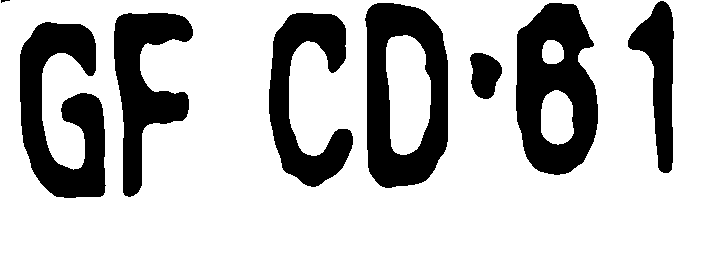
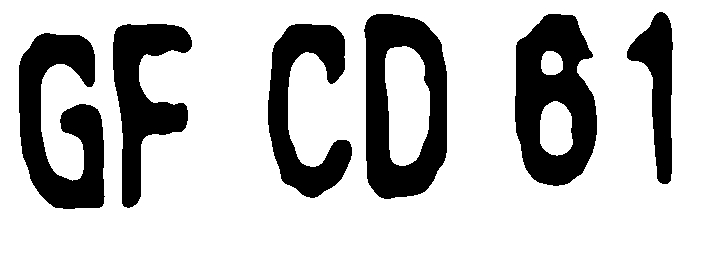
bounding boxes filter now working

diff --git a/processImageOCV.py b/processImageOCV.py
@@ -1,6 +1,7 @@
 import cv2
 import matplotlib.pyplot as plt
 import numpy as np
+import copy
 np.set_printoptions(threshold=np.inf)
 
 
@@ -29,20 +30,24 @@ def processImage(file='./camion3.png', output='./license3processed.png',
 
     image = firstFilter(image)
     image = secondFilter(image)
+    image = getBoundingBoxes(image)
 
     cv2.imwrite(output, image)
 
 
 def preFilter(img):
 
+    print('Pre-Filter entered')
+
     row_mean = np.mean(img, axis=1)
     col_mean = np.mean(img, axis=0)
+
 
     for i, row in enumerate(row_mean):
         hist, bins = np.histogram(img[i, :], bins=[0, 122, 255])
         hist = np.array(hist).astype(float)
 
-        if (hist[0] / (hist[0] + hist[1]) > 0.2):
+        if (hist[0] / (hist[0] + hist[1]) > 0.1):
             mask_row_upper = i
             break
 
@@ -50,7 +55,7 @@ def preFilter(img):
         hist, bins = np.histogram(img[i, :], bins=[0, 122, 255])
         hist = np.array(hist).astype(float)
 
-        if (hist[0] / (hist[0] + hist[1]) > 0.5):
+        if (hist[0] / (hist[0] + hist[1]) > 0.1):
             mask_row_lower = i
             break
 
@@ -58,7 +63,7 @@ def preFilter(img):
         hist, bins = np.histogram(img[:, i], bins=[0, 122, 255])
         hist = np.array(hist).astype(float)
 
-        if (hist[0] / (hist[0] + hist[1]) > 0.2):
+        if (hist[0] / (hist[0] + hist[1]) > 0.25):
             mask_col_left = i
             break
 
@@ -66,7 +71,7 @@ def preFilter(img):
         hist, bins = np.histogram(img[:, i], bins=[0, 122, 255])
         hist = np.array(hist).astype(float)
 
-        if (hist[0] / (hist[0] + hist[1]) > 0.2):
+        if (hist[0] / (hist[0] + hist[1]) > 0.25):
             mask_col_right = i
             break
 
@@ -91,7 +96,7 @@ def firstFilter(img):
         hist, bins = np.histogram(img[i, :], bins=[0, 122, 255])
         hist = np.array(hist).astype(float)
 
-        if (hist[1] / (hist[0] + hist[1]) > 0.75):
+        if (hist[1] / (hist[0] + hist[1]) > 0.551):
             mask_row_upper = i
             break
 
@@ -99,7 +104,7 @@ def firstFilter(img):
         hist, bins = np.histogram(img[i, :], bins=[0, 122, 255])
         hist = np.array(hist).astype(float)
 
-        if (hist[1] / (hist[0] + hist[1]) > 0.75):
+        if (hist[1] / (hist[0] + hist[1]) > 0.76):
             mask_row_lower = i
             break
 
@@ -107,7 +112,7 @@ def firstFilter(img):
         hist, bins = np.histogram(img[:, i], bins=[0, 122, 255])
         hist = np.array(hist).astype(float)
 
-        if (hist[1] / (hist[0] + hist[1]) > 0.5):
+        if (hist[1] / (hist[0] + hist[1]) > 0.6):
             mask_col_left = i
             break
 
@@ -115,7 +120,7 @@ def firstFilter(img):
         hist, bins = np.histogram(img[:, i], bins=[0, 122, 255])
         hist = np.array(hist).astype(float)
 
-        if (hist[1] / (hist[0] + hist[1]) > 0.5):
+        if (hist[1] / (hist[0] + hist[1]) > 0.7):
             mask_col_right = i
             break
 
@@ -132,7 +137,7 @@ def secondFilter(img):
     row_mean = np.mean(img, axis=1)
 
     for i, mean in enumerate(row_mean):
-        if mean < 250:
+        if mean < 200:
             img[i, :] = 255
         else:
             break
@@ -146,15 +151,49 @@ def secondFilter(img):
     col_mean = np.mean(img, axis=0)
 
     for i, mean in enumerate(col_mean):
-        if mean < 250:
+        if mean < 200:
             img[:, i] = 255
         else:
             break
 
     for i, mean in enumerate(reversed(col_mean)):
-        if mean < 250:
+        if mean < 200:
             img[:, len(col_mean) - i - 1] = 255
         else:
             break
 
+    return img
+
+
+def getBoundingBoxes(img):
+
+    img[0, :] = 255
+    img[-1, :] = 255
+    img[:, 0] = 255
+    img[:, -1] = 255
+
+    image = copy.deepcopy(img)
+
+    image, cnt, h = cv2.findContours(image, cv2.RETR_TREE,
+                                     cv2.CHAIN_APPROX_SIMPLE)
+
+    img = cv2.cvtColor(img, cv2.COLOR_GRAY2RGB)
+    # img = cv2.drawContours(img, cnt, -1, (0, 255, 0), 3)
+
+    w, h = img.shape[:2]
+    box_mask = np.zeros((w, h), np.int8)
+
+    for c in cnt:
+        x, y, w, h = cv2.boundingRect(c)
+
+        if w*h > 8000 and w*h < 25000:
+            box_mask = cv2.rectangle(box_mask, (x, y), (x+w, y+h), 255, -1)
+
+    inv_img = cv2.bitwise_not(img)
+    masked_data = cv2.bitwise_and(inv_img, inv_img, mask=box_mask)
+    img = cv2.bitwise_not(masked_data)
+
+    plt.subplot()
+    plt.imshow(img)
+    plt.show()
     return img

diff --git a/main.py b/main.py
@@ -6,12 +6,16 @@ file = 'license4processed.png'
 param = 8
 
 tic = time.clock()
+processImage(file='patente5.png', output='license5processed.png')
+subprocess.call(['tesseract', 'license5processed.png', 'stdout', '-psm', str(param)])
+
+processImage(file='camion2.png', output='license2processed.png')
+subprocess.call(['tesseract', 'license2processed.png', 'stdout', '-psm', str(param)])
+
 processImage(file='patente4.png', output='license4processed.png')
 subprocess.call(['tesseract', 'license4processed.png', 'stdout', '-psm', str(param)])
 
 
-# processImage(file='patente5.png', output='license5processed.png')
-# subprocess.call(['tesseract', 'license5processed.png', 'stdout', '-psm', str(param)])
 toc = time.clock()
 
 print('Time: %f' % (toc - tic))
